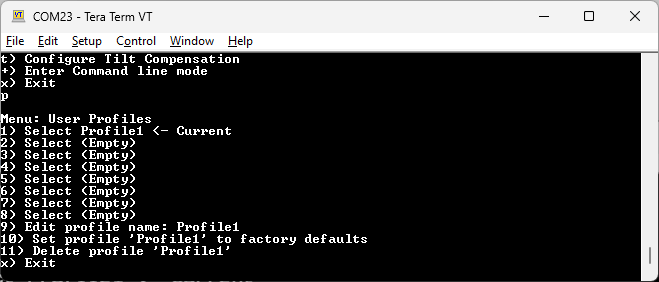
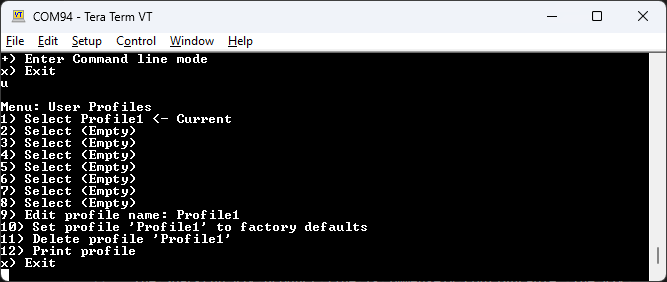
Docs update

diff --git a/docs/menu_ports.md b/docs/menu_ports.md
@@ -13,55 +13,108 @@ Compatibility Icons
 
 - EVK: :material-radiobox-indeterminate-variant:{ .support-partial title="Feature Partially Supported" }
 - Facet mosaic: :material-radiobox-marked:{ .support-full title="Feature Supported" }
-- Postcard: :material-radiobox-indeterminate-variant:{ .support-partial title="Feature Partially Supported" }
+- Postcard: :material-radiobox-marked:{ .support-full title="Feature Supported" }
 - Torch: :material-radiobox-indeterminate-variant:{ .support-partial title="Feature Partially Supported" }
 
 </div>
 
 <figure markdown>
-![Setting the baud rate of the ports](./img/WiFi Config/RTK_Surveyor_-_WiFi_Config_-_Express_Ports_Config.jpg)
+
+![Setting the baud rate of the ports](<./img/WiFi Config/RTK_Surveyor_-_WiFi_Config_-_Express_Ports_Config.jpg>)
 <figcaption markdown>
 Setting the baud rates of the two available external ports
 </figcaption>
 </figure>
 
 <figure markdown>
-![Baud rate configuration of Radio and Data ports](./img/Terminal/SparkFun_RTK_Express_-_Ports_Menu.jpg)
+
+![Baud rate configuration of Radio and Data ports](<./img/Terminal/SparkFun_RTK_Express_-_Ports_Menu.jpg>)
 <figcaption markdown>
 Baud rate configuration of Radio and Data ports
 </figcaption>
 </figure>
 
-## Output GNSS Data over USB
+The RADIO and DATA ports vary between RTK devices: 
+
+* The RTK Facet mosaic L-Band has both RADIO and DATA ports.
+* The RTK Torch does not have a RADIO or DATA port, but can output NMEA over USB.
+* The RTK Postcard has both RADIO and DATA ports.
+* The RTK EVK has only a RADIO port.
 
 <figure markdown>
-![Set output to GNSS data over USB Serial](./img/Terminal/SparkFun RTK Everywhere - Ports USB GNSS Output.png)
+
+![RADIO and DATA ports on the RTK Postacrd](<./img/Postcard/SparkFun RTK PostCard Ports.png>)
 <figcaption markdown>
-Set output to GNSS data over USB Serial
-</figcaption>
-</figure>
-
-Enabling **Output GNSS data to USB serial** will pipe all GNSS output (generally NMEA but also RTCM) to the USB serial connection. This permits a wired connection to be made on devices, such as the RTK Torch, that have only one external port (USB).
-
-On RTK Facet mosaic, data can be output on the _USB1_ USB COM port.
-
-!!! note
-	To exit this mode, press **+++** to open the configuration menu.
-
-Additionally, correction may be *sent* to the device over USB. RTCM corrections received over USB will follow the [Corrections Priority table](menu_corrections_priorities.md).
-
-<figure markdown>
-![Example NMEA output over USB](./img/Terminal/SparkFun RTK Everywhere - Ports USB GNSS Output Example.png)
-<figcaption markdown>
-Example NMEA output over USB
+RADIO and DATA ports on the RTK Postacrd
 </figcaption>
 </figure>
 
 ## Radio Port
 
-Available on devices that have an external **RADIO** port.
+Available on devices that have an external **RADIO** port. 
 
-The **RADIO** port is connected directly to GNSS UART. By default, the port is set to 57600bps to match the [Serial Telemetry Radios](https://www.sparkfun.com/products/19032) that are recommended to be used with the RTK Facet (it is a plug-and-play solution). This can be set from 4800bps to 921600bps.
+The **RADIO** port is connected directly to GNSS UART. Depending on the platform, the port is set to 57600bps to match the [Serial Telemetry Radios](https://www.sparkfun.com/products/19032) that are recommended to be used with the RTK Facet (it is a plug-and-play solution). This can be set from 4800bps to 921600bps.
+
+The default for the RTK Postcard is 115200bps. 
+
+## Data Port
+
+<figure markdown>
+
+![DATA port connected to a SparkFun USB C to Serial adapter](<./img/SparkFun_RTK_Facet_-_Data_Port_to_USB.jpg>)
+<figcaption markdown>
+DATA port connected to a SparkFun USB C to Serial adapter
+</figcaption>
+</figure>
+
+The **DATA** port can be configured from 4800bps to 921600bps. The default depends on the GNSS model: e.g. 460800bps on LG290P,  230400 on other models. The default rate was chosen to support applications where a large number of messages are enabled and a large amount of data is sent. If you need to decrease the baud rate to 115200bps or other on the ZED-F9P, be sure to monitor the MON-COMM message within u-center for buffer overruns. A baud rate of 115200bps and the NMEA+RXM default configuration at 4Hz *will* cause buffer overruns.
+
+<figure markdown>
+
+![Monitoring the COM ports on the ZED-F9P](<./img/SparkFun_RTK_Express_-_Ports_Menu_MON-COMM_Overrun.jpg>)
+<figcaption markdown>
+Monitoring the COM ports on the ZED-F9P
+</figcaption>
+</figure>
+
+If you must run the data port at lower speeds, and you need to enable a large number of messages and/or increase the fix frequency beyond 4Hz, be sure to verify that UART1 usage stays below 90%. The image above shows the UART1 becoming overwhelmed because the ZED cannot transmit at 115200bps fast enough.
+
+Most applications do not need to plug anything into the **DATA** port. Most users will get their NMEA position data over Bluetooth. However, this port can be useful for sending position data to an embedded microcontroller or single-board computer. The pinout is 3.3V / TX / RX / GND. **3.3V** is provided by this connector to power a remote device if needed. While the port is capable of sourcing up to 600mA, we do not recommend more than 300mA. This port should not be connected to a power source.
+
+### Postcard USB Ports
+
+![alt text](<img/Postcard/SparkFun RTK PostCard USB Channels.png>)
+
+The DATA port on the RTK Postcard is the USB C connector. This connection creates two serial ports. **SERIAL-A** is used for Serial Configuration. **SERIAL-B** is connected to the DATA port of the LG290P to receive NMEA and other data directly.
+
+## Output GNSS Data over USB
+
+Enabling **Output GNSS data to USB serial** will pipe all GNSS output (generally NMEA but also RTCM) to the USB serial connection. This permits a wired connection to be made on devices, such as the RTK Torch, that have only one external port (USB).
+
+!!! note
+	To exit this mode, press **+++** to open the configuration menu.
+
+On RTK Facet mosaic, data can be output on the _USB1_ USB COM port.
+
+Additionally, corrections may be *sent* to the device over USB. RTCM corrections received over USB will follow the [Corrections Priority table](menu_corrections_priorities.md).
+
+<figure markdown>
+
+![Example NMEA output over USB](<./img/Terminal/SparkFun RTK Everywhere - Ports USB GNSS Output Example.png>)
+<figcaption markdown>
+Example NMEA output over USB
+</figcaption>
+</figure>
+
+## Limit RADIO Port Output to RTCM
+
+Enabling this option will turn off all data output except for the minimum RTCM messages necessary for RTK work. This is helpful in situations where a telemetry radio is used for connecting a Rover to a Base. Extra NMEA and binary data can tax a radio link and may cause the link to become intermittent or fail.
+
+## Allow Incoming Corrections on COM/UART
+
+Disable this to block corrections on the given port.
+
+If a GNSS receiver gets corrections from multiple sources (WiFi, Bluetooth, serial, etc) it can lead to unpredictable outcomes. To avoid this, RTK Everywhere firmware includes a sophisticated 'corrections controller' to give priority to the various sources, discarding any lower priority corrections sources that are detected. See the [Corrections Priority](menu_corrections_priorities.md) section for more information. Because the RTK Everywhere firmware cannot directly filter out corrections from a direct serial connection, this option allows a user to disable that correction source directly.
 
 ## Mux Channel
 
@@ -74,45 +127,27 @@ The **DATA** port on the RTK Facet is very flexible. Internally the **DATA** con
 - **I2C SDA/SCL** - The TX pin operates as SCL, RX pin as SDA on the I2C bus. This allows additional sensors to be connected to the I2C bus, typically sharing it with the GNSS and OLED. This is useful for custom applications where you are using your own firmware.
 - **ESP32 DAC Out/ADC In** - The TX pin operates as a DAC-capable GPIO on the ESP32. The RX pin operates as an ADC-capable input on the ESP32. This is useful for custom applications where you are using your own firmware. These pins have no function with the standard RTK Everywhere firmware.
 
-## Data Port
-
-<figure markdown>
-![Wires connected to a SparkFun USB C to Serial adapter](./img/SparkFun_RTK_Facet_-_Data_Port_to_USB.jpg)
-<figcaption markdown>
-</figcaption>
-</figure>
-
-The **DATA** port can be configured from 4800bps to 921600bps. The default depends on the GNSS model: e.g. 460800bps on LG290P; 230400 on other models. The default rate was chosen to support applications where a large number of messages are enabled and a large amount of data is sent. If you need to decrease the baud rate to 115200bps or other on the ZED-F9P, be sure to monitor the MON-COMM message within u-center for buffer overruns. A baud rate of 115200bps and the NMEA+RXM default configuration at 4Hz *will* cause buffer overruns.
-
-<figure markdown>
-![Monitoring the COM ports on the ZED-F9P](./img/SparkFun_RTK_Express_-_Ports_Menu_MON-COMM_Overrun.jpg)
-<figcaption markdown>
-Monitoring the COM ports on the ZED-F9P
-</figcaption>
-</figure>
-
-If you must run the data port at lower speeds, and you need to enable a large number of messages and/or increase the fix frequency beyond 4Hz, be sure to verify that UART1 usage stays below 90%. The image above shows the UART1 becoming overwhelmed because the ZED cannot transmit at 115200bps fast enough.
-
-Most applications do not need to plug anything into the **DATA** port. Most users will get their NMEA position data over Bluetooth. However, this port can be useful for sending position data to an embedded microcontroller or single-board computer. The pinout is 3.3V / TX / RX / GND. **3.3V** is provided by this connector to power a remote device if needed. While the port is capable of sourcing up to 600mA, we do not recommend more than 300mA. This port should not be connected to a power source.
-
 ### Pulse Per Second and External Trigger
 
 <figure markdown>
-![Configuring the External Pulse and External Events](./img/WiFi Config/SparkFun%20RTK%20Ports%20PPS%20Config.png)
+
+![Configuring the External Pulse and External Events](<./img/WiFi Config/SparkFun%20RTK%20Ports%20PPS%20Config.png>)
 <figcaption markdown>
 Configuring the External Pulse and External Events over WiFi
 </figcaption>
 </figure>
 
 <figure markdown>
-![RTK Mux Menu](./img/Terminal/SparkFun_RTK_Express_-_Ports_Menu_Mux.jpg)
+
+![RTK Mux Menu](<./img/Terminal/SparkFun_RTK_Express_-_Ports_Menu_Mux.jpg>)
 <figcaption markdown>
 Port menu showing mux data port connections
 </figcaption>
 </figure>
 
 <figure markdown>
-![RTK Facet mosaic External Triggers](./img/Terminal/SparkFun_RTK_Facet_mosaic_External_Trigger.png)
+
+![RTK Facet mosaic External Triggers](<./img/Terminal/SparkFun_RTK_Facet_mosaic_External_Trigger.png>)
 <figcaption markdown>
 Configuring the External Pulse and External Events on RTK Facet mosaic
 </figcaption>

diff --git a/docs/menu_gnss.md b/docs/menu_gnss.md
@@ -23,16 +23,8 @@ The SparkFun RTK product line is immensely configurable. The RTK device will, by
 The GNSS Configuration menu allows a user to change the report rate, dynamic model, and select which constellations should be used for fix calculations.
 
 <figure markdown>
-![RTK Everywhere Main Menu](./img/Terminal/SparkFun RTK Everywhere - Main Menu.png)
-<figcaption markdown>
-RTK Everywhere main menu
-</figcaption>
-</figure>
 
-Pressing any key will show the *Main Menu*. From the main menu, pressing 1 will bring up the *GNSS Receiver* configuration menu.
-
-<figure markdown>
-![GNSS menu showing measurement rates and dynamic model](./img/Terminal/SparkFun RTK Everywhere - GNSS Receiver.png)
+![GNSS menu showing measurement rates and dynamic model](<./img/Terminal/SparkFun RTK Everywhere - GNSS Receiver.png>)
 <figcaption markdown>
 GNSS menu showing measurement rates and dynamic model
 </figcaption>
@@ -52,7 +44,8 @@ The Dynamic Model can be changed but it is recommended to leave it as *Survey*. 
 ## Min SV Elevation and C/N0
 
 <figure markdown>
-![Elevation and C/N0](./img/Terminal/SparkFun RTK Everywhere - GNSS Receiver.png)
+
+![Elevation and C/N0](<./img/Terminal/SparkFun RTK Everywhere - GNSS Receiver.png>)
 <figcaption markdown>
 GNSS menu showing Minimum SV Elevation and C/N0
 </figcaption>
@@ -65,7 +58,8 @@ A minimum C/N0 is set in dB. If a satellite is detected that is below this signa
 ## Constellations Menu
 
 <figure markdown>
-![Enable or disable the constellations used for fixes](./img/Terminal/SparkFun RTK Everywhere - GNSS Menu Constellations.png)
+
+![Enable or disable the constellations used for fixes](<./img/Terminal/SparkFun RTK Everywhere - GNSS Menu Constellations.png>)
 <figcaption markdown>
 Enable or disable the constellations used for fixes
 </figcaption>
@@ -80,7 +74,8 @@ If supported by hardware, Galileo E6 corrections are enabled by default to suppo
 ## NTRIP Client
 
 <figure markdown>
-![NTRIP Client enabled showing settings](./img/Terminal/SparkFun RTK Everywhere - GNSS Receiver.png)
+
+![NTRIP Client enabled showing settings](<./img/Terminal/SparkFun RTK Everywhere - GNSS Receiver.png>)
 <figcaption markdown>
 NTRIP Client enabled showing settings
 </figcaption>
@@ -121,7 +116,8 @@ Compatibility Icons
 </div>
 
 <figure markdown>
-![Menu for controlling Multipath Mitigation](./img/Terminal/SparkFun RTK Everywhere - GNSS Multipath Mitigation.png)
+
+![Menu for controlling Multipath Mitigation](<./img/Terminal/SparkFun RTK Everywhere - GNSS Multipath Mitigation.png>)
 <figcaption markdown>
 Menu for controlling Multipath Mitigation
 </figcaption>

diff --git a/docs/menu_tcp_udp.md b/docs/menu_tcp_udp.md
@@ -23,17 +23,18 @@ NMEA data is generally consumed by a GIS application or Data Collector. These me
 <figure markdown>
 
 ![TCP/UDP Menu showing various Client and Server options](<./img/Terminal/SparkFun RTK Everywhere - TCP-UDP Menu.png>)
-
 <figcaption markdown>
 TCP/UDP Menu showing various Client and Server options
 </figcaption>
 </figure>
 
-<p align="center">
-  <img src="./img/WiFi Config/SparkFun RTK Config - TCP Port.png" alt="TCP/UDP settings using Web Config">
-</p>
+<figure markdown>
 
-*<p align="center">TCP/UDP settings using Web Config</p>*
+![TCP/UDP settings using Web Config](<./img/WiFi Config/SparkFun RTK Config - TCP Port.png>)
+<figcaption markdown>
+TCP/UDP settings using Web Config
+</figcaption>
+</figure>
 
 ## TCP Client and Server
 
@@ -41,12 +42,14 @@ The RTK device supports connection over TCP. The TCP Client sits on top of the n
 
 If either Client or Server is enabled, a port can be designated. By default, the port is 2948 (registered as [*GPS Daemon request/response*](https://tcp-udp-ports.com/port-2948.htm)) but any port 0 to 65535 is supported.
 
+<figure markdown>
 
-<p align="center">
-  <img src="./img/Terminal/TCP_Client.gif" alt="Ethernet TCP Client connection">
-</p>
+![Ethernet TCP Client connection](<./img/Terminal/TCP_Client.gif>)
+<figcaption markdown>
+Ethernet TCP Client connection
+</figcaption>
+</figure>
 
-*<p align="center">Ethernet TCP Client connection</p>*
 
 The above animation was generated using [TCP_Server.py](https://github.com/sparkfun/SparkFun_RTK_Everywhere_Firmware/blob/main/Firmware/Tools/TCP_Server.py) and demonstrates connecting to an RTK device over TCP from a desktop.
 

diff --git a/docs/menu_userprofiles.md b/docs/menu_userprofiles.md
@@ -19,9 +19,19 @@ Compatibility Icons
 </div>
 
 <figure markdown>
-![List of user profiles](./img/Terminal/SparkFun RTK Everywhere - User Profiles Menu.png)
+
+![List of user profiles](<./img/Terminal/SparkFun RTK Everywhere - User Profiles Menu.png>)
 <figcaption markdown>
-User Profiles Menu
+User Profiles Menu in the serial interface
+</figcaption>
+</figure>
+
+
+<figure markdown>
+
+![List of user profiles](<./img/WiFi Config/SparkFun RTK Profiles Menu.png>)
+<figcaption markdown>
+User Profiles Menu in the Web Config interface
 </figcaption>
 </figure>
 
@@ -32,10 +42,23 @@ Profiles can be selected, renamed, reset to defaults, and completely erased from
 ## User Profile Selection via Display
 
 <figure markdown>
-![Multiple Profiles on Menu](./img/SparkFun_RTK_Facet_Profile.jpg)
+
+![Multiple Profiles on Menu](<./img/SparkFun_RTK_Facet_Profile.jpg>)
 <figcaption markdown>
 Multiple Profiles on Menu
 </figcaption>
 </figure>
 
 On devices that have a display, if more than one profile is defined, the profiles will be displayed and selectable by using the **Power/Setup** button. Only the first 7 characters of a profile's name will be shown on the menu. Once a profile has been selected, the device will reboot using that profile.
+
+## Print Profile
+
+A profile can be printed to the terminal. This dumps the entire settings file and can be helpful for debugging or getting support.
+
+<figure markdown>
+
+![Printing a profile](<./img/Terminal/SparkFun RTK Profiles Print.png>)
+<figcaption markdown>
+Printing a Profile
+</figcaption>
+</figure>
